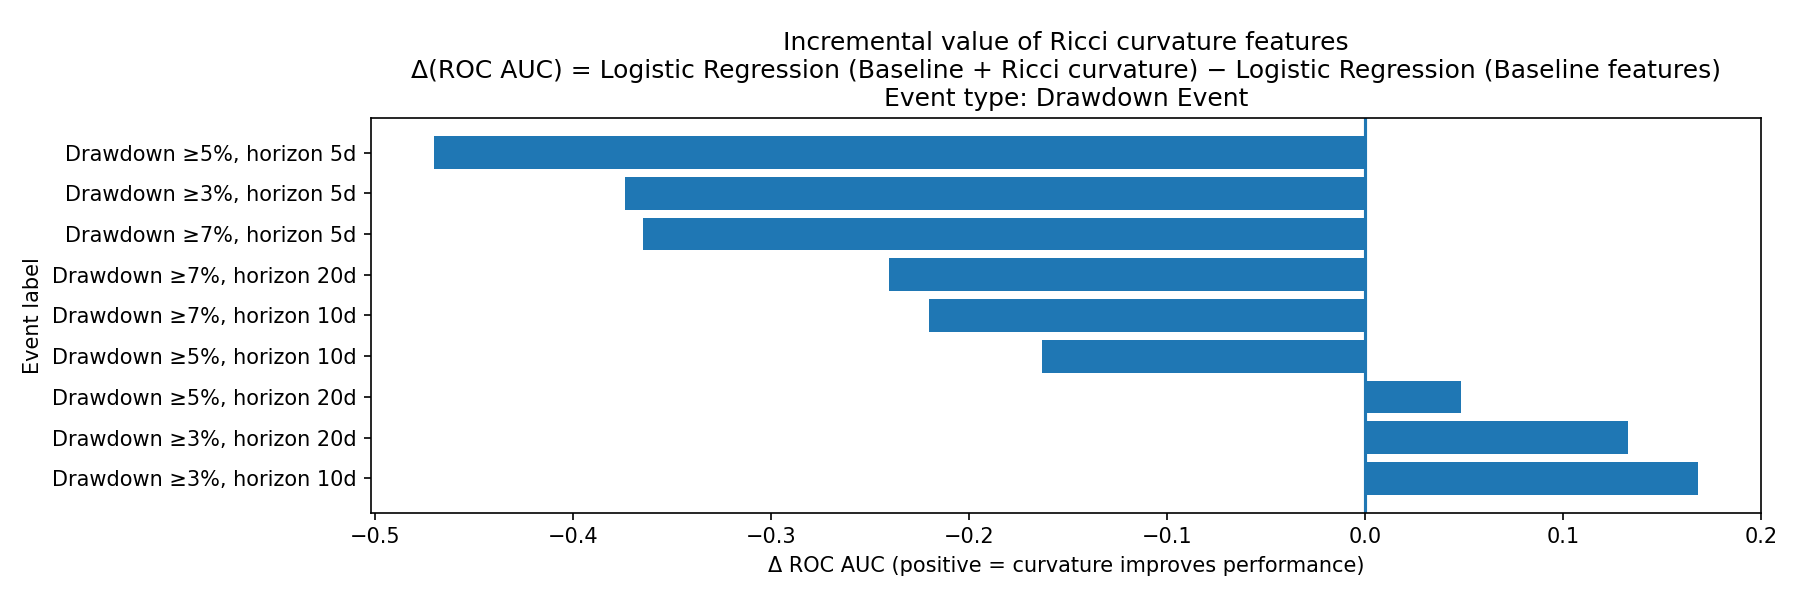
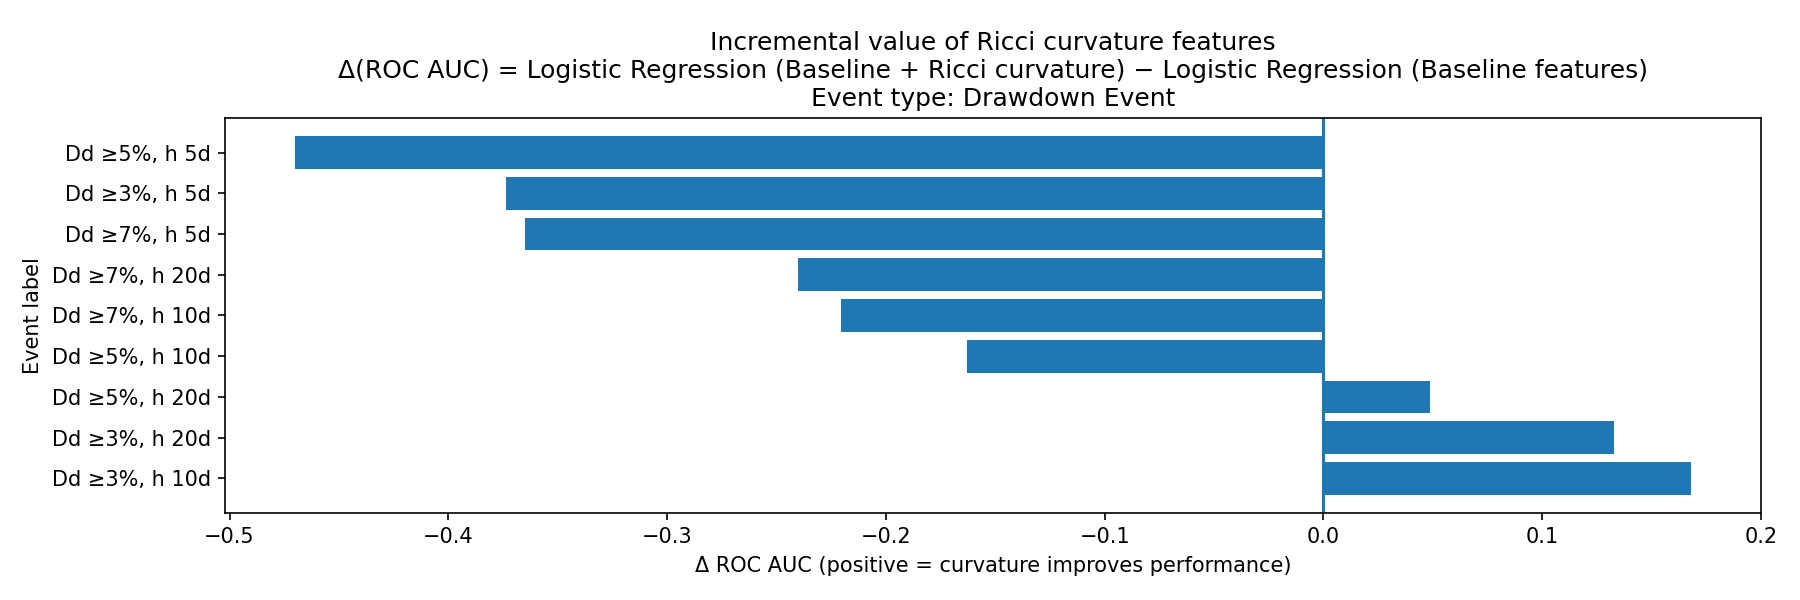
Shorter plot labels

diff --git a/analysis/interpret_results.py b/analysis/interpret_results.py
@@ -153,6 +153,17 @@ def label_short_id(label_name: str) -> str:
         return f"Volatility top {li.vol_top_pct_int}%, horizon {li.horizon_days}d"
     return f"Drawdown ≥{li.dd_thr_int}%, horizon {li.horizon_days}d"
 
+def label_shorter_id(label_name: str) -> str:
+    """
+    Even shortert, still readable id for filenames and compact axes.
+    """
+    li = parse_label_info(str(label_name))
+    if not li:
+        return str(label_name)
+    if li.event_type == "vol":
+        return f"Vol. {li.vol_top_pct_int}%, h {li.horizon_days}d"
+    return f"Dd ≥{li.dd_thr_int}%, h {li.horizon_days}d"
+
 
 def pretty_metric_name(metric_col: str) -> str:
     m = str(metric_col)
@@ -399,7 +410,7 @@ def barplot_delta_auc(delta_df: pd.DataFrame, out_dir: Path,
         print("[warn] No delta_auc values; skipping delta plot.")
         return
 
-    df["label_short"] = df["label_name"].astype(str).map(label_short_id)
+    df["label_short"] = df["label_name"].astype(str).map(label_shorter_id)
 
     title_a = pretty_model_name(model_a)
     title_b = pretty_model_name(model_b)
